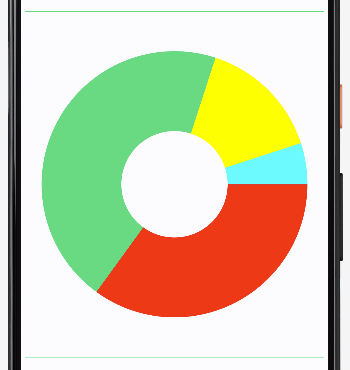
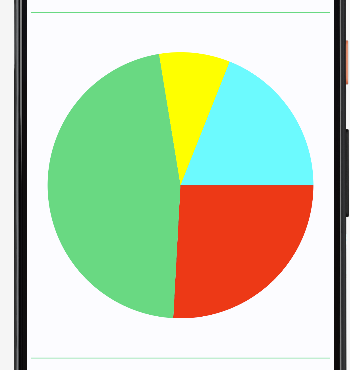
Improve readme

diff --git a/app/src/main/java/io/jetchart/demo/MainActivity.kt b/app/src/main/java/io/jetchart/demo/MainActivity.kt
@@ -66,6 +66,8 @@ class MainActivity : ComponentActivity() {
                         JetDivider()
                         PieChartComposable()
                         JetDivider()
+                        DonutChartComposable()
+                        JetDivider()
                     }
                 }
             }
@@ -115,6 +117,15 @@ private fun points(count: Int) = (1..count).map { Point(Random.nextFloat(), "Poi
 
 @Composable
 fun PieChartComposable() {
+    PieChart(pies = Pies(listOf(Slice(15f, Red), Slice(27f, JetGreen), Slice(5f, Yellow), Slice(11f, Cyan))),
+        modifier = Modifier.height(340.dp),
+        animation = fadeInAnimation(4000),
+        sliceDrawer = FilledSliceDrawer(thickness = 100f)
+    )
+}
+
+@Composable
+fun DonutChartComposable() {
     PieChart(pies = Pies(listOf(Slice(35f, Red), Slice(45f, JetGreen), Slice(15f, Yellow), Slice(5f, Cyan))),
         modifier = Modifier.height(340.dp),
         animation = fadeInAnimation(4000),

diff --git a/README.md b/README.md
@@ -3,7 +3,7 @@
 
 A Jetpack Compose library for creating beautiful and interactive charts.
 
-The library supports a wide variety of chart types, including bar charts, line charts...
+The library supports a wide variety of chart types, including bar charts, line charts, pie chart, donut charts...
 
 Charts can be customized to match your app's style, and they can be animated to provide a more engaging user experience.
 
@@ -118,10 +118,11 @@ private fun points(count: Int) = (1..count).map { Point(Random.nextFloat(), "Poi
 ```
 
 ## Pie Chart
-![Pie Chart big](docs/pie1.gif) ![Pie Chart small](docs/pie2.gif)
+![Pie Chart](docs/pie1.png) ![Donut Chart big](docs/donut1.png) ![Donut Chart small](docs/donut2.png)
 
 ### Features
 You can:
+- specify thickness to obtain a pie or a donut chart
 - animate the drawing
 
 ### Example
